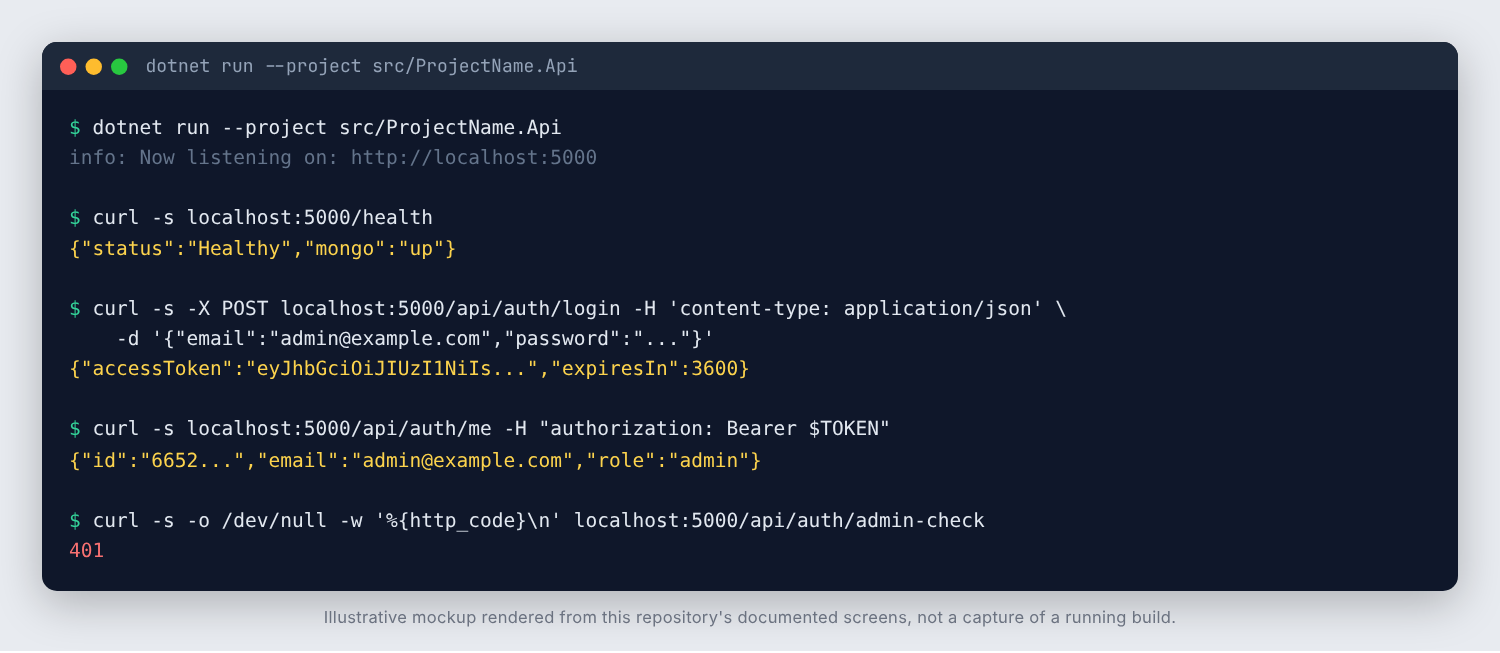
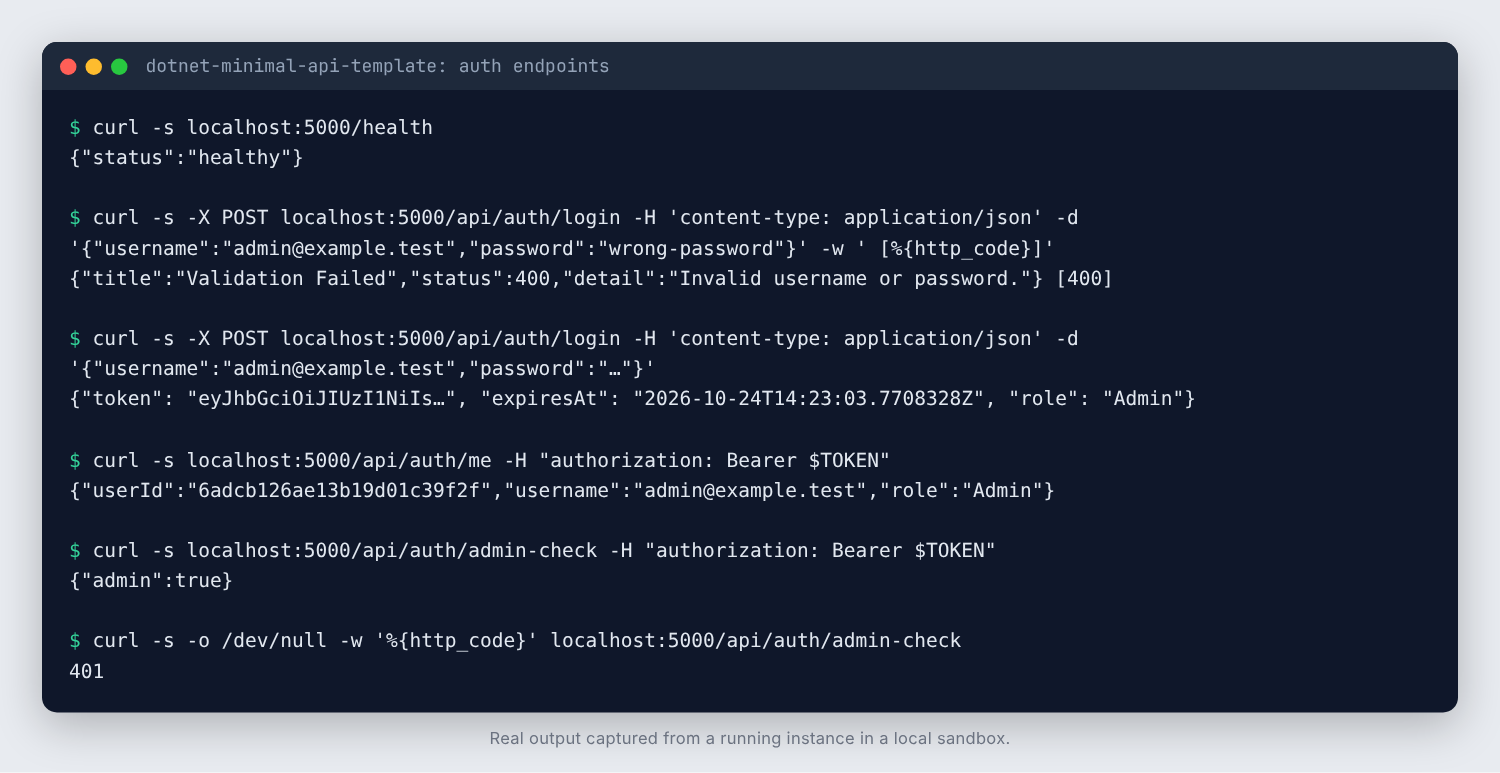
Replace mockup with real output from the running API
Claude-Session: https://claude.ai/code/session_01MMnAbBEvfYn2oeVzGWoYsN

diff --git a/README.md b/README.md
@@ -6,9 +6,9 @@ background-worker host are included as optional folders.
 
 ## Screenshots
 
-![Running the API and calling the auth endpoints](docs/screenshots/api-session.png)
+![Health check, rejected and accepted login, and the JWT-protected endpoints](docs/screenshots/api-session.png)
 
-_These images are illustrative mockups rendered from this repository's documented screens and API shapes, not captures of a running build. Regenerate or replace them with real captures once the app is running._
+_Real output from a local run of the built API (.NET 10, Development environment, seeded admin) against FerretDB, a MongoDB-compatible server backed by PostgreSQL, because a MongoDB server was not available in the sandbox. The JWT is shortened and the password is redacted in the login line. FerretDB is not MongoDB, so use the Testcontainers suite (real MongoDB) as the reference for database behaviour._
 
 ## What is included
 
